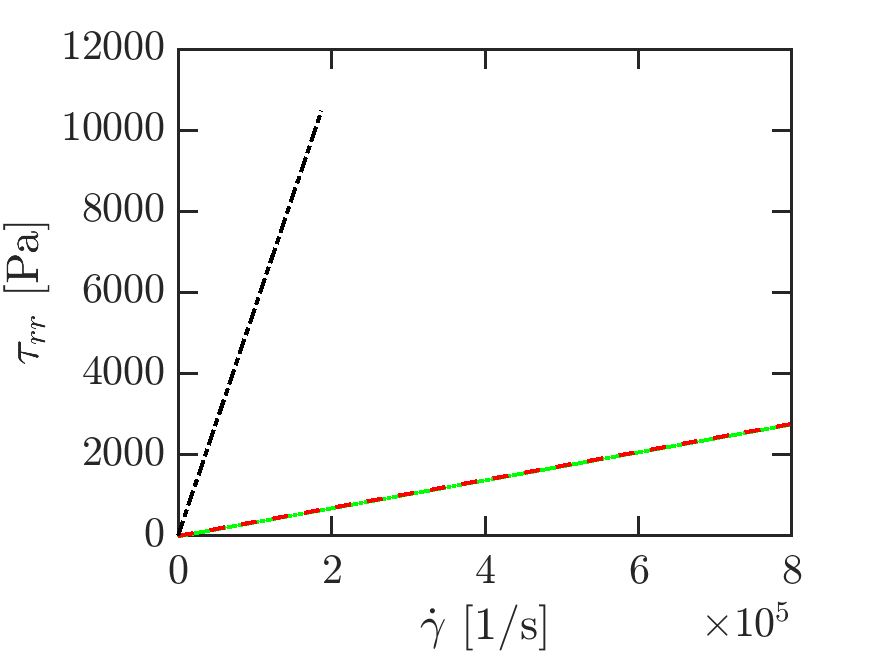
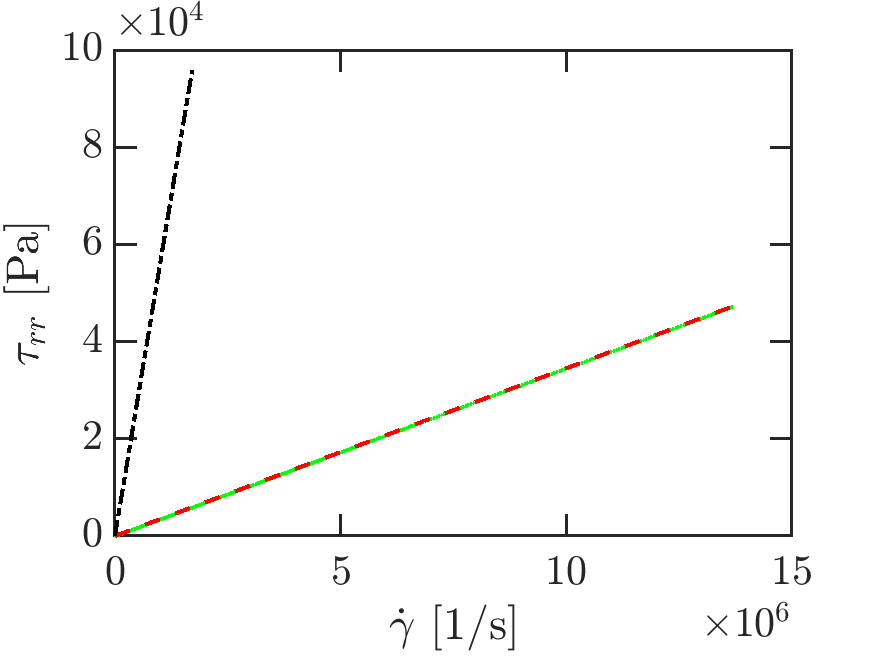
updated values for the simulations, next up improving results by calculating the viscosiity integral

diff --git a/ffield.m b/ffield.m
@@ -1,11 +1,11 @@
 lR = length(Rout(:,1));
-lr = 100;
+lr = 500;
 R = Rout(:,1);
 Rdot = Rout(:,2);
-Rdist = Ro_w*ones(lR,lr).*linspace(1,7,lr);
-sr = sfunc(Rdist,R,Rdot,size(Rdist,1),size(Rdist,2));
+Rdist = Ro_w*ones(lR,lr).*linspace(0,8,lr);
+sr = sfunc(Rdist,R,Rdot,lR,lr);
 mugrid = carreau(vmaterial,sr);
-taugrid = -2*mugrid.*sr;
+% taugrid = -2*mugrid.*sr;
 tcon = Tout(1:lR)/tRC;
 rcon = Rdist(1,1:lr)'/Ro_w;
 [xcon,ycon] = meshgrid(tcon,rcon);
@@ -15,7 +15,7 @@ figure(6)
 contourf(xcon',ycon',mugrid/mu_o,clevels,'edgecolor','none')
 colormap jet;
 cbar = colorbar;
-cbar.Label.String = '$\mu$ [Pa s]';
+cbar.Label.String = '$\mu$*';
 set(cbar,'TickLabelInterpreter','latex');
 pos = get(cbar,'Position');
 cbar.Label.Position = [pos(1)*2 pos(2)*(-0.3)]; 
@@ -32,23 +32,23 @@ xa.TickLength = [.03 .03];
 xa.LineWidth = 1.5;
 box on;
 
-figure(7)
-contourf(xcon',ycon',taugrid,clevels,'edgecolor','none')
-colormap jet;
-cbar = colorbar;
-cbar.Label.String = '$\tau_{rr}$ [Pa]';
-set(cbar,'TickLabelInterpreter','latex');
-pos = get(cbar,'Position');
-cbar.Label.Position = [pos(1)*2 pos(2)*(-3)]; 
-cbar.Label.Rotation = 0;
-cbar.Label.Interpreter = 'latex';
-% caxis([0 1])
-xlabel('\it{t*}', 'Interpreter', 'Latex', 'FontSize', 20); 
-ylabel('\it{r*}','Interpreter','Latex','FontSize',24);
-set(gcf,'color','w');
-set(gca,'FontName','Times','FontSize',20);
-set(gca,'TickLabelInterpreter','latex')
-xa = gca;
-xa.TickLength = [.03 .03];
-xa.LineWidth = 1.5;
-box on;
+% figure(7)
+% contourf(xcon',ycon',taugrid,clevels,'edgecolor','none')
+% colormap jet;
+% cbar = colorbar;
+% cbar.Label.String = '$\tau_{rr}$ [Pa]';
+% set(cbar,'TickLabelInterpreter','latex');
+% pos = get(cbar,'Position');
+% cbar.Label.Position = [pos(1)*2 pos(2)*(-3)]; 
+% cbar.Label.Rotation = 0;
+% cbar.Label.Interpreter = 'latex';
+% % caxis([0 1])
+% xlabel('\it{t*}', 'Interpreter', 'Latex', 'FontSize', 20); 
+% ylabel('\it{r*}','Interpreter','Latex','FontSize',24);
+% set(gcf,'color','w');
+% set(gca,'FontName','Times','FontSize',20);
+% set(gca,'TickLabelInterpreter','latex')
+% xa = gca;
+% xa.TickLength = [.03 .03];
+% xa.LineWidth = 1.5;
+% box on;

diff --git a/bubblewall_main.m b/bubblewall_main.m
@@ -11,8 +11,8 @@ omegan = (1/(2*pi*Ro_w))*sqrt((3*kappa*(po-pv)+(3*kappa-1)*(2*Sd)/Ro_w)/rho);
 tRC = 1/omegan;                         % natural period
 tmag = 10;
 tfinal=tmag*tRC;                          % final time of simulation
-deltap = 1E4;                         % amplitude of wave
-f = 1.5E6;%1/tRC;                              % driving frequecy
+deltap = 0.1E6;                         % amplitude of wave
+f = 1E6;%1/tRC;                              % driving frequecy
 shearmodulus = 0;                       % shear modulus of the surounding material
 mu_water = 8.9*10E-4;                   % viscosity of water
 Ca = (rho*c*c)/shearmodulus;            % shear modulus of soft material 

diff --git a/bubblewall_solver.m b/bubblewall_solver.m
@@ -19,7 +19,7 @@ function [Tout,Rout,Rddot] = bubblewall_solver(R_eqd,deltap,kappa,f,...
     r_dt=0;%(pv-po)/(rho*c);       % ICs: initial velocity
     r_initial=[Ro_eq r_dt];     % ICs: initial radius 
     t_span=[0 tf];              % TIME
-    options = odeset('MaxStep', 1E-10,'AbsTol',1E-9);
+    options = odeset('MaxStep', tfinal/1E4,'AbsTol',1E-9);
     % Solving the System of ODEs
     [Tout,Rout]=ode23tb(@(t,r) bubblewall(t,r,eta,k,xi,rho,Ro_eq,...
             S,deltap,f,po,pv,pGo,force,emodel,vmodel,vmaterial),...

diff --git a/sfunc.m b/sfunc.m
@@ -1,7 +1,7 @@
 function sofr = sfunc(r,R,Rdot,N,M)
 sofr = zeros(N,M);
-    for j = 1:M
-        for i = 1:N
+    for i = 1:N
+        for j = 1:M
             if r(i,j) >=  R(i,1)
                 sofr(i,j) = -2*Rdot(i,1)*(R(i,1)^2)/((r(i,j))^3);
             else
